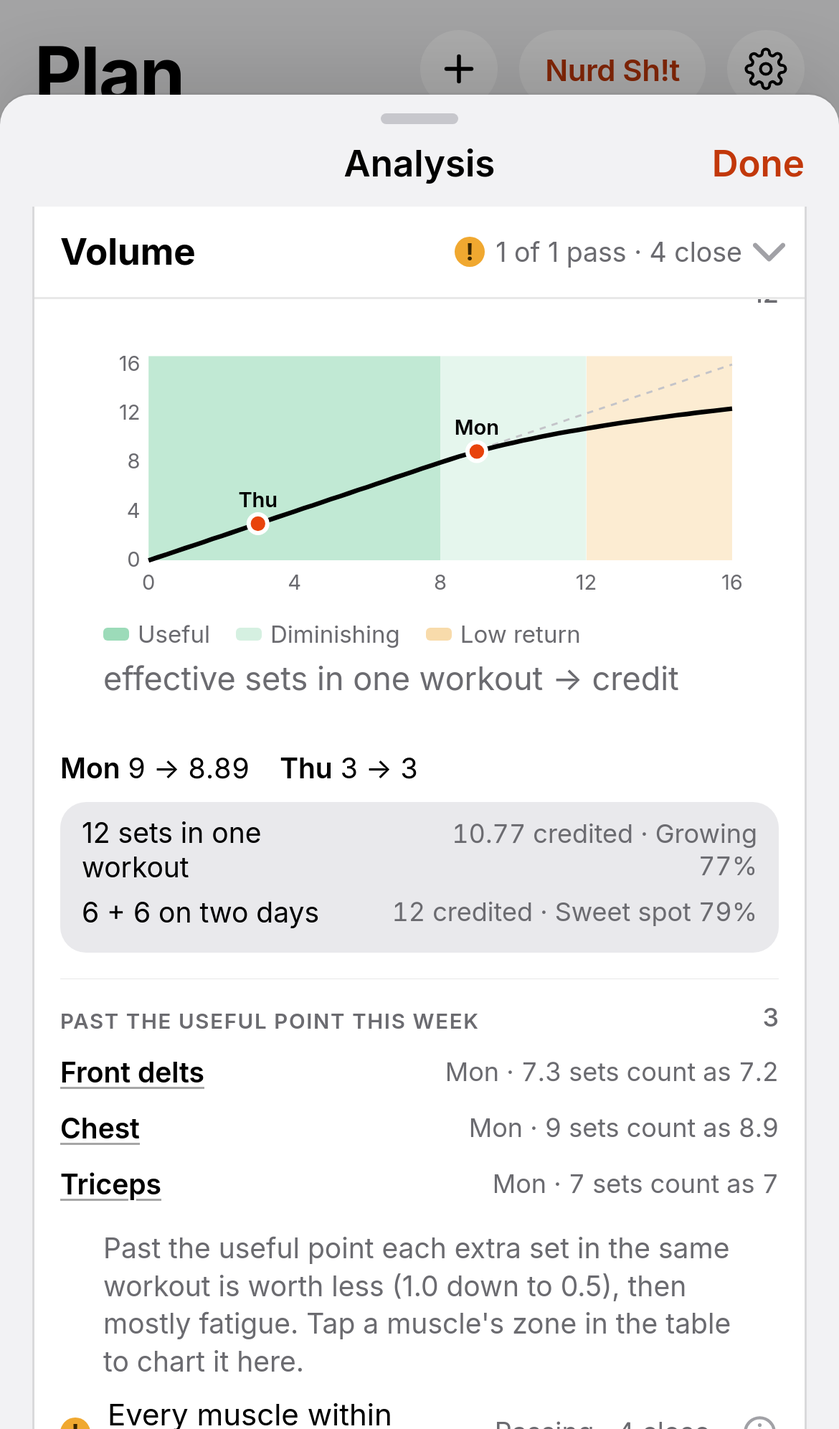
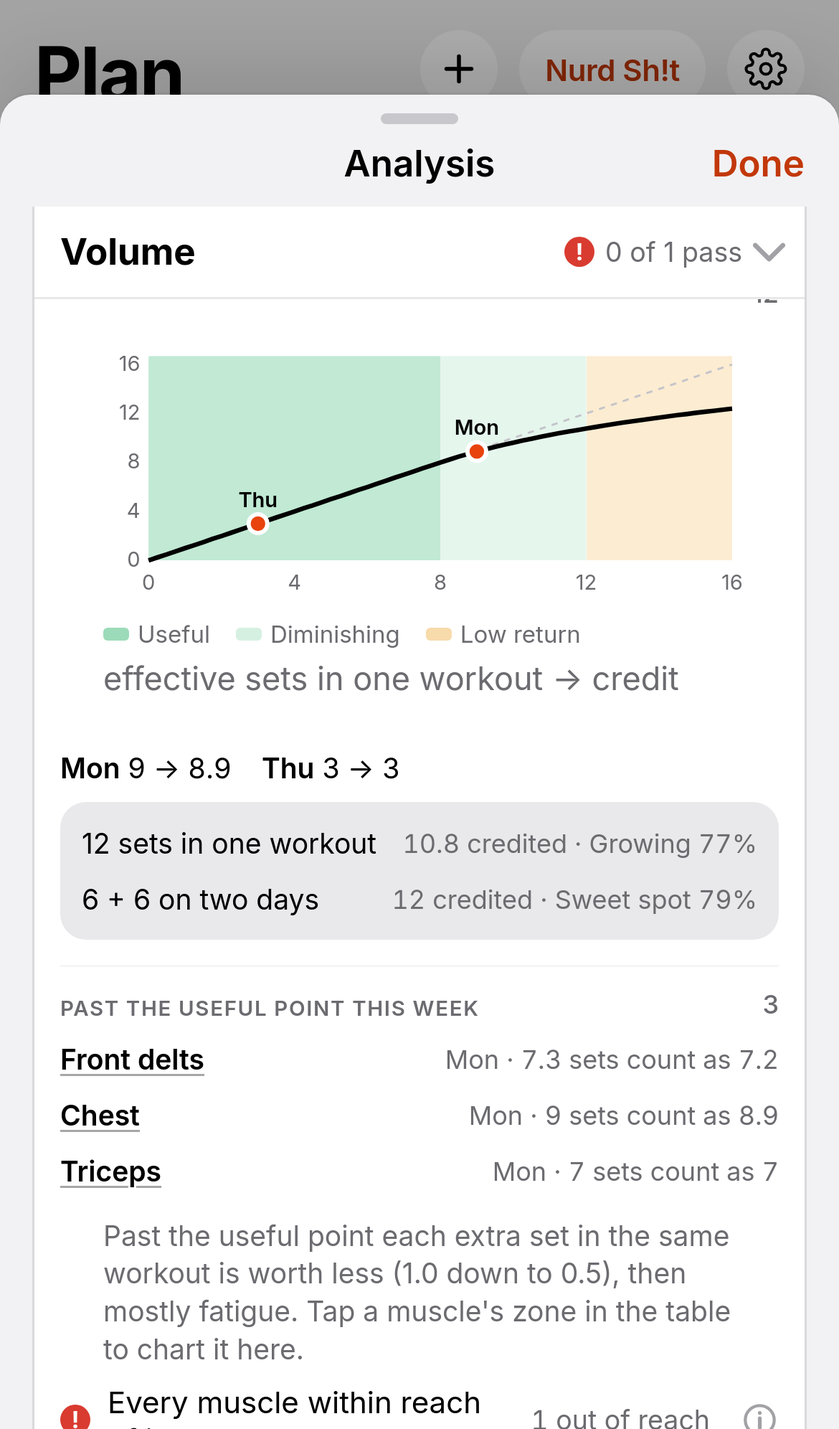
Storyboard QC on 3009dc7: board weekly colours use per-session credit; one credited value drives number, zone and colour; one decimal max; benchmark toggle selected state

diff --git a/storyboard/board.js b/storyboard/board.js
@@ -334,7 +334,7 @@ function setAnOpen(id,v){const o=anOpen();o[id]=v?1:0;try{localStorage.setItem(A
 const ICO={pass:'<span class="cki ok" role="img" aria-label="Pass">✓</span>',close:'<span class="cki amb" role="img" aria-label="Close to target">!</span>',attention:'<span class="cki bad" role="img" aria-label="Needs attention">!</span>','n/a':'<span class="cki na" role="img" aria-label="Not counted">–</span>'};
 const mlk=(m,anchor)=>`<button class="mlk" data-b="mus" data-m="${m}"${anchor?` data-anchor="${anchor}"`:''}>${MLB(m)}</button>`;
 const escA=s=>String(s||'').replace(/&/g,'&amp;').replace(/"/g,'&quot;').replace(/</g,'&lt;');
-const nfmt=x=>+(+x).toFixed(2);
+const nfmt=x=>+(+x).toFixed(1);   // qc3009: one decimal max, no trailing .0
 // a value shown next to a target range never looks in range when it isn't: whole numbers stay whole; otherwise one decimal,
 // rounded normally unless that flips the side of the range, then rounded away from the range (7.95 of 8–20 -> 7.9)
 const bfmt=(v,lo,hi)=>{v=+v;if(Number.isInteger(v))return String(v);const side=x=>x<lo?-1:hi!=null&&x>hi?1:0,s=side(v);let r=Math.round(v*10)/10;
@@ -363,7 +363,7 @@ function renderAnalysis(){if(!AN)return;const dt=RD(),{A,C,d}=stats(),R=dt.rules
     effective_frequency:`${FM.filter(m=>(A.muscles[m]||{}).freq>=2).length} of ${FM.length} on 2+ days`,frequency_two_days:ntc('frequency_two_days')?`${ntc('frequency_two_days')} on 1 day`:'all on 2+ days',
     push_pull_ratio:pp?`${pp.pull_sets} pull : ${pp.push_sets} push`:'',stretch_share:ss.overall!=null?`${pct(ss.overall)} of sets`:'',
     unilateral_share:us.overall!=null?`${pct(us.overall)} of sets`:'',movement_pattern_sets:`${Object.keys(mps).length} patterns`,
-    fatigue_rating:fz.sets?`${pct((((fz.components||{}).tiers||[])[0]||{}).share_of_cost||0)} ${((((fz.components||{}).tiers||[])[0]||{}).tier)||''}`:'',recovery_cost:rc.benchmarks?`≈ ${rc.benchmarks.ratio}× a ${rc.benchmarks.nearest.replace(/^Classic /,'').toLowerCase()}`:'',
+    fatigue_rating:fz.sets?`${pct((((fz.components||{}).tiers||[])[0]||{}).share_of_cost||0)} ${((((fz.components||{}).tiers||[])[0]||{}).tier)||''}`:'',recovery_cost:rc.benchmarks?`≈ ${nfmt(rc.benchmarks.ratio)}× a ${rc.benchmarks.nearest.replace(/^Classic /,'').toLowerCase()}`:'',
     stimulus_per_fatigue:`${SH.filter(s=>s.type==='swap_lower_fatigue').length} lower-fatigue swaps`,spinal_load:`${SP.week} of ${SP.week_max} heavy spine sets`,
     lower_back_fatigue:ntc('lower_back_fatigue')?`${ntc('lower_back_fatigue')} note${ntc('lower_back_fatigue')>1?'s':''}`:'no notes',stretch_coverage:ntc('stretch_coverage')?`${ntc('stretch_coverage')} note${ntc('stretch_coverage')>1?'s':''}`:'none',
     session_length:(v=>v?`≈ ${v.average} min a session`:'')(val('session_length'))};
@@ -393,8 +393,8 @@ function renderAnalysis(){if(!AN)return;const dt=RD(),{A,C,d}=stats(),R=dt.rules
   // line in volume-model.json swaps.display wording: "Drops {muscle} below its minimum ({after} of {min} sets)" (muscles with a delta >= 0.5 set)
   const swapTrade=s=>{const f=s.fixes[0];if(!f||!f.days||!dt.VM)return '';const sx=(f.diff||[]).find(x=>x.op==='swap');const r=ANL.swapRecord(dt,d,f.days,lv,sx&&sx.from_id,sx&&sx.to_id);
     const fd=r.fatigue_cost.delta,line1=`<span class="sgfd num">${fd<0?`Saves ${nfmt(-fd)}`:`Adds ${nfmt(fd)}`} fatigue a week</span>`;
-    const dr=r.drops_below_min.filter(m=>Math.abs(r.muscles[m].delta)>=0.5);
-    return line1+dr.map(m=>`<span class="sgtr" data-m="${m}">Drops ${MLB(m).toLowerCase()} below its minimum (${nfmt(r.muscles[m].after)} of ${nfmt(r.muscles[m].min)} sets)</span>`).join('')};
+    const dr=Object.keys(r.muscles).filter(m=>{const o=r.muscles[m];return o.before_shown>=o.min&&o.after_shown<o.min&&Math.abs(o.delta)>=0.5});   // qc3009: judged on the shown (credited, 1-dp) values so the card agrees with the table
+    return line1+dr.map(m=>`<span class="sgtr" data-m="${m}">Drops ${MLB(m).toLowerCase()} below its minimum (${nfmt(r.muscles[m].after_shown)} of ${nfmt(r.muscles[m].min)} sets)</span>`).join('')};
   const sgRow=(s,inl)=>{const [who,num]=sgHead(s),f0=s.fixes[0];let k=-1;if(f0){FIX.push(Object.assign({section:s.section},f0));k=FIX.length-1}const m=sgM(s);
     return `<div class="sgr ${s.severity}${inl?' inl':''}${s.fixes.length?' hasfix':''}" data-type="${s.type}" data-src="${s.source}" data-sec="${s.section}"${(s.target||{}).flag?` data-rule="${ruleOf(s.target.flag)}"`:''}${m?` data-m="${m}"`:''} title="${escA(sugTarget(s,d,lv))}">
       ${inl?'':`<div class="sgt">${who}${num?` <span class="num">${num}</span>`:''}</div>`}<div class="sgp">${s.source==='lower_fatigue_swap'&&f0?`${f0.preview}${swapTrade(s)}`:f0?`${f0.preview}${f0.resolves?'':` <em>${R.partial_label}</em>`}`:'No one-tap change passes the checks. Change it by hand.'}</div>
@@ -486,8 +486,8 @@ function renderAnalysis(){if(!AN)return;const dt=RD(),{A,C,d}=stats(),R=dt.rules
         const SH=n=>n.replace(/^Classic /,'').replace(' body-part split',' split').replace(' push/pull/legs',' PPL'),TW=330,cw=t=>t.length*5.6+8;
         const rows=[];const place=x=>{const t=`${SH(x.name)} ${Math.round(x.v)}`,p=P(x.v),w=cw(t),tx=p<12?0:p>88?-1:-.5,l=p/100*TW+tx*w,r=l+w;let k=0;while((rows[k]||[]).some(([a,c])=>l<c+6&&a<r+6))k++;(rows[k]=rows[k]||[]).push([l,r]);return {x,t,p,tx,k}};
         const PL=L.map(place),at=(p,tx,cls,inner,top)=>`<span class="${cls}" style="left:${p.toFixed(1)}%;--tx:${tx*100}%${top!=null?`;top:${top}px`:''}">${inner}</span>`;
-        const wp=P(b.week),ratio=mine?+(b.week/MA.avg).toFixed(2):b.ratio,wl=`${out==='lo'?'‹ ':''}This week <b class="num">${Math.round(b.week)}</b>${out==='hi'?' ›':''}`;
-        const seg=`<div class="seg sm2 rbmode" role="group" aria-label="Compare with">${MO.map(o=>{const dis=o.id==='my_average'&&!MA.available;return `<button type="button" class="${o.id===mode?'on':''}" data-b="bmode" data-mode="${o.id}"${dis?' disabled':''}>${o.label}</button>`}).join('')}</div>`;
+        const wp=P(b.week),ratio=nfmt(mine?b.week/MA.avg:b.ratio),wl=`${out==='lo'?'‹ ':''}This week <b class="num">${Math.round(b.week)}</b>${out==='hi'?' ›':''}`;
+        const seg=`<div class="seg sm2 rbmode" role="group" aria-label="Compare with">${MO.map(o=>{const dis=o.id==='my_average'&&!MA.available;return `<button type="button" class="${o.id===mode?'on':''}" data-b="bmode" data-mode="${o.id}" aria-pressed="${o.id===mode}"${dis?' disabled':''}>${o.label}</button>`}).join('')}</div>`;
         const line=mine?`This week ≈ <b class="num">${ratio}×</b> your 4-week average`:`This week ≈ <b class="num">${ratio}×</b> a ${b.nearest.replace(/^Classic /,'').toLowerCase()}`;
         return `<div class="rbench" data-mode="${mode}" data-ratio="${ratio}" data-out="${out}"><div class="ash"><span>${ref.label||'Compared with common routines'}</span></div>${seg}<p class="rbl">${line}</p>
           <div class="rbs"><div class="rbw">${at(wp,wp<12?0:wp>88?-1:-.5,'rbme',wl)}</div><div class="rbt">${L.map(x=>`<i class="${x.me?'me':''}" style="left:${P(x.v).toFixed(1)}%" title="${x.name}"></i>`).join('')}<b class="${out?'clamp':''}" style="left:${wp.toFixed(1)}%"></b></div>
@@ -496,7 +496,7 @@ function renderAnalysis(){if(!AN)return;const dt=RD(),{A,C,d}=stats(),R=dt.rules
           <p class="foot">${mine?`My average: the last ${MA.window.length} logged weeks (deload weeks and weeks under half done left out).`:MA.available?'':`My average unlocks after ${MA.need} logged weeks (${MA.weeks} so far).`}</p></div>`};
       const rleg=RTD?`<div class="tierleg rtleg">${RTD.tiers.map(t=>`<span data-tier="${t.id}"><i style="background:var(--tier-${TI(t.id)})"></i>${RGL(t.label)}</span>`).join('')}</div>`:'';
       return gfx('recovery_cost',`<div class="hbars">${Object.entries(bd).map(([k,v])=>stk(k,v)).join('')||'<p class="foot">No training days yet.</p>'}</div>${Object.keys(bd).length?rleg:''}${benchHtml()}${hoursHtml()}`,{mod:1})
-        +gfx('stimulus_per_fatigue',`<div class="hbars">${sm.map(([m,v])=>hbar(mlk(m,'fatigue'),v/smx*100,(+v).toFixed(2))).join('')}</div><p class="foot">Effective sets per fatigue point; lowest first.</p>`,{mod:1})
+        +gfx('stimulus_per_fatigue',`<div class="hbars">${sm.map(([m,v])=>hbar(mlk(m,'fatigue'),v/smx*100,String(nfmt(v)))).join('')}</div><p class="foot">Effective sets per fatigue point; lowest first.</p>`,{mod:1})
         +gfx('fatigue_rating',fz.sets?`<div class="tierbar">${tiers.map(t=>`<i style="flex:${t.share_of_cost};background:var(--tier-${FTI(t.tier)})" title="${RGL(t.tier)}"></i>`).join('')}</div><div class="tierleg">${tiers.map(t=>`<span><i style="background:var(--tier-${FTI(t.tier)})"></i>${RGL(t.tier)} ${pct(t.share_of_cost)}</span>`).join('')}</div><button class="btn plain sm fzmore" data-b="anx" data-id="fatigue_rating">Full breakdown ›</button>`:'',{mod:1})
         +`<div class="ckl">${ckRow('recovery_vs_baseline')}${ckRow('spinal_load',{after:A.day.length?`<div class="ckd">${A.day.map(x=>`<span class="${x.spinal>SP.session_max?'over':''}">${WD[DAYS.indexOf(x.day)]} ${x.spinal}/${SP.session_max}</span>`).join(' · ')} spine sets</div>`:''})}${ckRow('lower_back_fatigue')}</div>`+rest('recovery_fatigue','Lower-fatigue swaps')},
     session:()=>{const lim=sessLimit(),mx2=Math.max(mx,lim+15),SM=t=>PC.sessionMinutes(dt,t,lv);
@@ -563,7 +563,7 @@ function ddBody(){const m=CB.key,dt=RD(),d=checkDays(),lv=B.level,SH=ANL.sheet(d
    ${sec('curve','Stimulus curve',A.muscles[m]?`<div class="curvec">${curve(m,A)}</div>${P.curve.zone?`${kv('Zone',ZL(P.curve.zone))}${kv('Sweet spot',`${P.curve.zones.sweet[0]}–${P.curve.zones.sweet[1]} sets · min ${P.curve.zones.min} · diminishing past ${P.curve.zones.diminishing}`)}${kv('Plateau',`${Math.round(P.curve.stimulus*100)}% of this muscle's modeled plateau`)}`:kv('Position',({below:'Below the ideal band',in_band:'In the ideal band',above:'Above the ideal band'})[P.curve.position])}${kv('Next set',`+${(P.curve.next_set*100).toFixed(1)}%`)}`:'',{mod:1,v:P.curve.zone?ZL(P.curve.zone):`${Math.round(P.curve.stimulus*100)}% of max`})}
    ${sec('frequency','Frequency',`<div class="ddfq">${Object.entries(P.frequency.effective_by_day).map(([k,v])=>`<span><i data-r="${RAMP(v)}"></i>${WD[DAYS.indexOf(k)]} ${nfmt(v)}</span>`).join('')}</div>${FN.map(n=>`<div class="nrow" data-note="${n.id}" data-pol="${n.polarity}">${n.polarity==='positive'?ICO.pass:ICO.close}<span>${n.text}</span></div>`).join('')}`,{v:`${P.frequency.days_hit} day${P.frequency.days_hit===1?'':'s'} with ${P.frequency.min_effective_per_day}+ sets`})}
    ${sec('stretch','Stretch',P.stretch.share==null?'<p class="foot">No stretch list for this muscle, or no sets.</p>':`<div class="hbar"><span class="vm hbs">Share${P.stretch.checked?(P.stretch.check_pass?ICO.pass:ICO.attention):''}</span><span class="hbt"><i class="${P.stretch.share<dt.targets.analytics.stretch_share_flag_below?'amb':'ok'}" style="--w:${P.stretch.share*100}%"></i><b style="--x:${dt.targets.analytics.stretch_share_flag_below*100}%"></b></span><span class="vn num">${pct(P.stretch.share)}</span></div>${P.stretch.checked?kv('Stretch check',P.stretch.check_pass?'Passes':'Needs stretch-focused work'):''}`)}
-   ${sec('fatigue','Recovery and fatigue',`${(h=>kv('Ready again',h?`${ANL.hoursRange(RD(),h.hours).text} after ${WDL[DAYS.indexOf(h.day)]}`:'–'))(RD().VM?ANL.weekHours(RD(),checkDays(),B.level).per_muscle[m]:null)}${RD().VM?`<p class="rcav">${RD().VM.recovery.caveat}</p>`:''}${kv('Stimulus per fatigue',P.stimulus_per_fatigue!=null?(+P.stimulus_per_fatigue).toFixed(2):'–')}${kv('Fatigue per effective set',P.fatigue!=null?(+P.fatigue).toFixed(2):'–')}${kv('One-side share',P.one_side_share!=null?pct(P.one_side_share):'–')}`,{mod:1})}
+   ${sec('fatigue','Recovery and fatigue',`${(h=>kv('Ready again',h?`${ANL.hoursRange(RD(),h.hours).text} after ${WDL[DAYS.indexOf(h.day)]}`:'–'))(RD().VM?ANL.weekHours(RD(),checkDays(),B.level).per_muscle[m]:null)}${RD().VM?`<p class="rcav">${RD().VM.recovery.caveat}</p>`:''}${kv('Stimulus per fatigue',P.stimulus_per_fatigue!=null?nfmt(P.stimulus_per_fatigue):'–')}${kv('Fatigue per effective set',P.fatigue!=null?nfmt(P.fatigue):'–')}${kv('One-side share',P.one_side_share!=null?pct(P.one_side_share):'–')}`,{mod:1})}
    ${sec('session','Contributing exercises',rows.length?`<div class="group cbl">${rows.map(r=>`<div class="row cbr" data-u="${r.t.u}" data-id="${r.t.id}">${X.gl(r.t.id)}<div class="grow"><div class="t1">${X.exNameP(r.t.id)}${X.cxL(r.t.id)}</div><div class="t2 num">${WD[r.di]} · ${r.sets} sets → ${nfmt(r.eff)} effective</div></div><button class="btn sm grey" data-b="cbrm" data-u="${r.t.u}">Remove</button></div>`).join('')}</div>`:'<p class="foot">Nothing on the board trains this yet.</p>',{v:rows.length?`${P.contributors.length} exercise${P.contributors.length===1?'':'s'}`:''})}
    ${sec('suggest','Suggestions',`${sgs||'<p class="foot">No suggestions for this muscle.</p>'}${pk?`<div class="pad0"><button class="btn accent block cbadd" data-b="cbadd" data-id="${pk.id}" data-day="${ra.day}"><span>${X.I('plus',2)} Add suggested</span><small>${X.exNameP(pk.id)} · ${WD[DAYS.indexOf(ra.day)]}</small></button></div><p class="foot">Top pick of the shared ranker for ${MLB(m).toLowerCase()} on ${WDL[DAYS.indexOf(ra.day)]}${ra.items.length>1?`; then ${ra.items.slice(1,3).map(x=>X.exNameP(x.id)).join(', ')}`:''}; ${setsFor(pk.id)} sets.</p>`:''}`)}
    <p class="foot">Effective sets = sets × the exercise's counted credit for this muscle (the Volume model). Curve, recovery and fatigue values are models, not measurements.</p>`}

diff --git a/storyboard/logic/progcheck.js b/storyboard/logic/progcheck.js
@@ -16,7 +16,8 @@ function ctx(dt){if(dt._pc)return dt._pc;const R=dt.rules,RU={};R.rules.forEach(
   return dt._pc={R,RU,T:TT.targets,S:TT.session.muscles,LF:TT.levelMinFactor,HEAVY,PJ:dt.patterns,MUS:dt.exl.muscles}}
 const total=d=>d.tiles.reduce((a,t)=>a+t.sets,0);
 // ---- vol2 (Coach's data/volume-model.json = dt.VM; targets.json volume_zones; rules.json session_length.by_level). Without dt.VM the old maths run.
-const r05=x=>Math.floor(x*2+0.5)/2;   // weekly totals round to 0.5 before colouring (targets.json counting.round_to); ships with the new counting
+const r05=x=>Math.floor(x*2+0.5)/2,r1=x=>Math.round(x*10)/10;   // qc3009: display + zoning use the credited value at one decimal (r1); r05 kept only for Coach's swap records
+   // weekly totals round to 0.5 before colouring (targets.json counting.round_to); ships with the new counting
 function roleOff(dt,e,r){const C=dt.VM.credit.roles;let mx=0;for(const v of Object.values(e.muscles))if(v>mx)mx=v;return r>=mx-1e-9||r>=0.75?C.prime.rir_offset:r>=0.5?C.secondary.rir_offset:C.minor.rir_offset}
 function prox(dt,rir){const T=dt.VM.credit.prox.table;return T[String(Math.max(0,Math.min(6,Math.round(rir))))]}
 const plannedRir=(dt,e)=>{const P=dt.VM.credit.planned_rir_default;return P[e.type]!=null?P[e.type]:2};
@@ -43,7 +44,7 @@ function slotCounts(dt,days){const {PJ}=ctx(dt),c={};for(const k in PJ.slots)c[k
   for(const d of days)for(const t of d.tiles){const e=dt.EX[t.id],hit=new Set();for(const s of e.patterns||[]){if(PJ.slots[s].kind==='compound'&&e.type==='isolation')continue;hit.add(s);(PJ.slots[s].counts_toward||[]).forEach(x=>hit.add(x))}hit.forEach(s=>c[s]+=1)}return c}
 function patternFlags(dt,days,level){const {PJ}=ctx(dt);if(!days.some(d=>d.tiles.length))return [];const c=slotCounts(dt,days),out=[];
   for(const [s,mn] of Object.entries(PJ.weekly_min_by_level[level])){if(mn<=0||c[s]>=mn)continue;out.push([c[s]===0&&PJ.required.includes(s)?'warn':'info','pattern_gap',s,c[s],mn])}return out}
-function col(dt,m,x,level){const {T,LF}=ctx(dt),a=pyR(T[m].min*LF[level]*2)/2,b=T[m].max;if(dt.VM)x=r05(x);if(a<=x&&x<=b)return 'G';if((a-2<=x&&x<a)||(b<x&&x<=b*1.25))return 'A';return 'R'}
+function col(dt,m,x,level){const {T,LF}=ctx(dt),a=pyR(T[m].min*LF[level]*2)/2,b=T[m].max;if(dt.VM)x=r1(x);if(a<=x&&x<=b)return 'G';if((a-2<=x&&x<a)||(b<x&&x<=b*1.25))return 'A';return 'R'}
 // days: [{day:'mon', tiles:[{id,sets}]}] (training days only, any order). Returns [flags, week]
 function check(dt,days,level){const {R,RU,T,S,HEAVY}=ctx(dt),PAT=dt.PAT,f=[],week={},freq={};for(const m in T){week[m]=0;freq[m]=0}
   let push=0,pull=0,spw=0;const byday={};days.forEach(d=>byday[d.day]=d);const HS=new Set(R.heavy_squats),HH=new Set(R.heavy_hinges);
@@ -56,7 +57,8 @@ function check(dt,days,level){const {R,RU,T,S,HEAVY}=ctx(dt),PAT=dt.PAT,f=[],wee
       if(R.push_patterns.includes(p))push+=t.sets;if(R.pull_patterns.includes(p))pull+=t.sets}
     for(const [p,c] of pc){if(c<2)continue;const pv=eff(dt,d.tiles.filter(t=>(PAT[t.id]??null)===p));const over=Object.keys(pv).filter(m=>pv[m]>RU.redundant_pattern.threshold);
       if(over.length)f.push(['warn','redundant_pattern',d.day,p,c,over[0],pyR(pv[over[0]],1)])}
-    const v=eff(dt,d.tiles);for(const m in v){const x=v[m];week[m]+=x;if(x>=2)freq[m]+=1;if(x>10)f.push(['warn','junk_volume_session',d.day,m,pyR(x,1)])}
+    const v=eff(dt,d.tiles);for(const m in v){const x=v[m];week[m]+=dt.VM?sessCredit(dt,m,x):x;   // qc3009: weekly totals use the per-session credit (JS diverges from Coach's Python here, accepted)
+      if(x>=2)freq[m]+=1;if(x>10)f.push(['warn','junk_volume_session',d.day,m,pyR(x,1)])}
     const ids=new Set(d.tiles.map(t=>t.id));if(level==='beginner'&&[...ids].some(i=>HS.has(i))&&[...ids].some(i=>HH.has(i)))f.push([RU.beginner_squat_and_deadlift.severity||'warn','beginner_squat_and_deadlift',d.day])} // r2fix: severity from rules[]
   for(let i=0;i<6;i++){const dd=ORDER[i],a=byday[dd],b=byday[ORDER[i+1]];if(!(a&&b))continue;
     if(a.tiles.some(t=>HH.has(t.id))&&b.tiles.some(t=>HS.has(t.id)))f.push([RU.hinge_before_squat.severity||'warn','hinge_before_squat',dd]);
@@ -219,14 +221,14 @@ function analytics(dt,days,level){const TT=dt.targets,C=TT.curve,A=TT.analytics,
   const kOf=m=>(C.k_by_muscle&&C.k_by_muscle[m]&&C.k_by_muscle[m][level])||C.k[level],Sx=(x,k)=>1-Math.exp(-x/k),SD=C.session_discount,disc=(v,m)=>VM?sessCredit(dt,m,v):Math.min(v,SD.cap)+Math.max(0,v-SD.cap)*SD.factor;
   const perDay=days.map(d=>eff(dt,d.tiles)),muscles={};
   for(const m of MUS){const rawx=perDay.reduce((a,v)=>a+v[m],0),x=perDay.reduce((a,v)=>a+disc(v[m],m),0),freq=perDay.filter(v=>v[m]>=A.frequency_min_effective).length;
-    if(VM){const z=zones(dt,m,level);muscles[m]={raw:r05(x),raw_exact:x,raw_sets:rawx,x,zones:z,zone:zoneOf(z,x),stim:stim(dt,m,level,x),next:stim(dt,m,level,x+1)-stim(dt,m,level,x),min:z.min,max:z.diminishing,freq};continue}
+    if(VM){const z=zones(dt,m,level);muscles[m]={raw:r1(x),raw_exact:x,raw_sets:rawx,x,zones:z,zone:zoneOf(z,r1(x)),stim:stim(dt,m,level,x),next:stim(dt,m,level,x+1)-stim(dt,m,level,x),min:z.min,max:z.diminishing,freq};continue}
     const k=kOf(m),min=pyR(T[m].min*LF[level]*2)/2;
     muscles[m]={raw:rawx,x,k,stim:Sx(x,k),next:Sx(x+1,k)-Sx(x,k),min,max:T[m].max,freq}}
   const fat=e=>e.fatigue!=null?e.fatigue:(e.type==='isolation'?.8:1.2);
   const day=days.map(d=>({day:d.day,minutes:sessionMinutes(dt,d.tiles,level),sets:total(d),cost:d.tiles.reduce((a,t)=>a+t.sets*fat(dt.EX[t.id]),0),spinal:d.tiles.reduce((a,t)=>a+(HEAVY.has(t.id)?t.sets:0),0)}));
   return {muscles,day,weekSets:days.reduce((a,d)=>a+total(d),0),weekMinutes:day.reduce((a,d)=>a+d.minutes,0),weekCost:day.reduce((a,d)=>a+d.cost,0),
     spinal:{week:day.reduce((a,d)=>a+d.spinal,0),week_max:RU.spinal_load.week_warn_above[level],session_max:RU.spinal_load.session_warn_above[level]},disclaimer:VM?dt.VM.disclaimer:A.disclaimer,curveModel:VM?dt.VM.curve.reads_as:C.model}}
-const API={check,fixes,evaluate,message,checks,analytics,sessionMinutes,eff,credit,sessCredit,sessZones,zones,stim,zoneOf,sessP,r05,flagKey,ORDER,shortLabel,ruleLabel,
+const API={check,fixes,evaluate,message,checks,analytics,sessionMinutes,eff,credit,sessCredit,sessZones,zones,stim,zoneOf,sessP,r05,r1,flagKey,ORDER,shortLabel,ruleLabel,
   // internals reused by logic/analysis.js and logic/progress.js (same functions, so the ports cannot drift)
   _x:{gAddSets,gAddExercise,gReduceSets,prev,nonin,_day,load,col,RULE_OF,total,ctx,clone,cmpT,sortBy,fmtPy}};
 if(typeof module!=='undefined'&&module.exports)module.exports=API;else root.PCHECK=API;

diff --git a/storyboard/logic/analysis.js b/storyboard/logic/analysis.js
@@ -53,7 +53,7 @@ function sLowerFatigue(dt,days,level){const res=[],DN=dt.rules.day_names;
     for(const c of cands.slice(0,8)){const nw=clone(days),hit=[];for(const d of nw){if(d.tiles.some(t=>t.id===c))continue;for(const t of d.tiles)if(t.id===cur){t.id=c;hit.push(d.day)}}
       if(!hit.length||!valid(dt,days,nw,level))continue;const b=weekCost(dt,days),a=weekCost(dt,nw);if(a>=b)continue;
       const p={target:cur,criteria:'lower_fatigue',days:hit,name:dt.EX[cur].name,new_name:dt.EX[c].name,day:hit[0],day_list:hit.map(x=>DN[x]).join(', '),
-        spf_from:spf(dt,cur,m).toFixed(2),spf_to:spf(dt,c,m).toFixed(2),muscle:m.replace(/_/g,' ')};
+        spf_from:String(+spf(dt,cur,m).toFixed(1)),spf_to:String(+spf(dt,c,m).toFixed(1)),   /* qc3009: one decimal on screen */muscle:m.replace(/_/g,' ')};
       fx.push(pack(dt,'swap_exercise',p,preview(dt,'lower_fatigue_swap',p),nw,days,true,b,a));break}
     res.push({target:{exercise:cur,muscle:m},fixes:fx})}return res}
 function sStretchShare(dt,days,level){const res=[],thr=A(dt).stretch_share_flag_below,STRB=dt.rules.stretch_biased,N=Object.keys(dt.EX).length;
@@ -102,7 +102,7 @@ function sRecovery(dt,days,level,baseline,modifier=1.0){if(!baseline)return [];c
   if(sw.length){const p={target:'lower_fatigue',n:sw.length,parts:sw.join('; ')};fx.push(pack(dt,'swap_exercise',p,preview(dt,'recovery_vs_baseline',Object.assign({},p,{kind:'swap'})),nw,days,pct(nw)<=goal,p0,pct(nw)))}
   return [{target:{pct:pyR(p0*100)},fixes:notResolvesFirst(fx)}]}
 function sWeeklyBand(dt,days,level){const res=[],{T,LF}=ctx(dt),week=PC.check(dt,days,level)[1];
-  for(let [m,x] of Object.entries(week)){if(dt.VM)x=PC.r05(x);const lo=Math.max(0.5,pyR(T[m].min*LF[level]*2)/2),hi=T[m].max;if((lo<=x&&x<=hi)||col(dt,m,x,level)==='R')continue;
+  for(let [m,x] of Object.entries(week)){if(dt.VM)x=PC.r1(x);const lo=Math.max(0.5,pyR(T[m].min*LF[level]*2)/2),hi=T[m].max;if((lo<=x&&x<=hi)||col(dt,m,x,level)==='R')continue;
     const under=x<lo,dist=v=>under?lo-v:v-hi;const gens=under?[X.gAddSets(dt,days,m),X.gAddExercise(dt,days,m)]:[X.gReduceSets(dt,days,null,'highest_contributor',m)];const fx=[];
     for(const g of gens){let best=null,n_=0;for(const [a_,p,nw] of g){if(n_++>200)break;const v=PC.eff(dt,nw.flatMap(d=>d.tiles))[m];
         if(dist(v)>=dist(x)-1e-9||!valid(dt,days,nw,level))continue;const c=pack(dt,a_,p,X.prev(dt,a_,p),nw,days,dist(v)<=0,x,v);if(c.resolves){best=c;break}best=best||c}
@@ -233,7 +233,7 @@ function items(dt,days,level,baseline=null){const am=dt.rules.analysis_metrics,f
     const mine=fd.filter(f=>(it.rules||[]).includes(f.rule)&&f.item===it.id),e={id:it.id,kind:it.kind,section:it.section,label:it.label};
     if(it.kind==='check'){const att=mine.filter(f=>f.severity!=='info');Object.assign(e,{status:!ok?'n/a':att.length?'attention':'pass',flags:ok?att:[],notes:ok?mine.filter(f=>f.severity==='info'):[]})}
     else if(it.kind==='info'&&it.rules&&it.rules.length)Object.assign(e,{applicable:ok,notes:ok?mine:[]});
-    const V={weekly_sets_per_muscle:()=>({muscles:Object.fromEntries(Object.entries(week).map(([m,x])=>[m,{sets:pyR(x,2),colour:col(dt,m,x,level)}])),week_sets_total:allsets}),
+    const V={weekly_sets_per_muscle:()=>({muscles:Object.fromEntries(Object.entries(week).map(([m,x])=>[m,{sets:pyR(x,1),colour:col(dt,m,x,level)}])),week_sets_total:allsets}),
       weekly_sets_per_region:regions,effective_frequency:()=>Object.fromEntries(Object.keys(week).map(m=>[m,train.filter(d=>(PC.eff(dt,d.tiles)[m]||0)>=2).length])),
       push_pull_ratio:()=>pushPull(dt,days),
       stretch_share:()=>({overall:r4(T.filter(x=>stretchFocused(dt,x[1])).reduce((a,x)=>a+x[2],0)/Math.max(1,allsets)),per_muscle:Object.fromEntries(Object.entries(bd.muscle).filter(([,v])=>v.stretch_share!==null).map(([m,v])=>[m,v.stretch_share])),per_pattern:pick(bd.pattern,'stretch_share')}),
@@ -278,8 +278,8 @@ function benchVs(dt,wc){const L=((((dt.targets||{}).recovery||{}).reference||{})
 // swap tradeoff record (volume-model.json swaps.schema), computed with the new counting
 function swapRecord(dt,before,after,level,from_id,to_id){const A0=PC.analytics(dt,before,level).muscles,A1=PC.analytics(dt,after,level).muscles,mus={},drops=[];
   const ch=new Set();after.forEach((d,i)=>{const b=before.find(x=>x.day===d.day);if(JSON.stringify(b&&b.tiles)!==JSON.stringify(d.tiles))ch.add(d.day)});
-  for(const m of Object.keys(A0)){const a=A0[m],b=A1[m],dl=b.raw_exact-a.raw_exact;if(Math.abs(dl)<1e-9)continue;const cr=a.raw>=a.min&&b.raw<a.min;if(cr)drops.push(m);
-    mus[m]={before:a.raw,after:b.raw,delta:r4(dl,2),zone_before:a.zone,zone_after:b.zone,min:a.min,crosses_below_min:cr,stimulus_before:r4(a.stim,3),stimulus_after:r4(b.stim,3)}}
+  for(const m of Object.keys(A0)){const a=A0[m],b=A1[m],dl=b.raw_exact-a.raw_exact,a5=PC.r05(a.raw_exact),b5=PC.r05(b.raw_exact);if(Math.abs(dl)<1e-9)continue;const cr=a5>=a.min&&b5<a.min;if(cr)drops.push(m);
+    mus[m]={before:a5,after:b5,before_shown:a.raw,after_shown:b.raw,delta:r4(dl,2),zone_before:a.zone,zone_after:b.zone,min:a.min,crosses_below_min:cr,stimulus_before:r4(a.stim,3),stimulus_after:r4(b.stim,3)}}
   const fb=weekCost(dt,before),fa=weekCost(dt,after);
   return {from_id,to_id,days:[...ch],fatigue_cost:{before:r4(fb,1),after:r4(fa,1),delta:r4(fa-fb,1)},muscles:mus,drops_below_min:drops,verdict:drops.length?'tradeoff':'clean'}}
 const API={hoursRange,myAverage,sessionHours,weekHours,benchVs,swapRecord,applyOps,invertOps,diff,suggest,sheet,metrics,checksPass,applicable,itemOf,flagDetails,breakdowns,fatigueRating,items,stretchFocused,tierOf,pushPull,ruleApplies,catalogue,typeOf,weekCost,stretchShare,lowerFatigueCandidates,pyDumps};

diff --git a/storyboard/sb.css b/storyboard/sb.css
@@ -1586,3 +1586,7 @@ html[data-theme=dark] .pmom.gold .pm-txt .eyebrow{color:#FFD88F}
 .rhr .num{white-space:normal}
 .rbmode{display:inline-flex;width:auto}.rbmode button{white-space:nowrap;padding:5px 12px;flex:0 0 auto}.rbmode button[disabled]{opacity:.45}
 .rhh+.rcav{margin:0 0 6px}
+/* qc3009: benchmark mode toggle: selected = filled ink pill, unselected = plain outline */
+.seg.rbmode{background:none;padding:0;gap:6px}
+.seg.rbmode button{background:transparent;box-shadow:none;border:1px solid var(--line-strong);color:var(--text-2);font-weight:500;height:30px;border-radius:15px}
+.seg.rbmode button.on{background:var(--ink);border-color:var(--ink);color:var(--paper);font-weight:600;box-shadow:none}

diff --git a/storyboard/ARCHITECTURE-web-storyboard.md b/storyboard/ARCHITECTURE-web-storyboard.md
@@ -528,3 +528,4 @@ The suite runs all three (`r3*` checks).
 - **Analysis2 + volume model vol3 (Oct 31, 2026, Mr Dude / Coach):** "Nerd Sh*t" → **Nurd Sh!t**. Coach's `volume-model.json` loads as `RD.VM`. In `logic/progcheck.js`: `credit()`/`eff()` = rating × prox(RIR + role offset) (planned RIR 2 compound / 1 isolation); weekly totals round half-up to 0.5 (`r05`) before `col()`; `stim()` = sqrt(x/D)/1.1 to the diminishing point, then plateau (no `k_by_muscle`); `zones()`/`zoneOf()` read `targets.json volume_zones`; `sessP()`/`sessionMinutes(dt,tiles,level)` read `rules.json session_length.by_level`, and `message()` fills `{warn_min}`/`{info_min}`. In `logic/analysis.js`: `sessionHours`/`weekHours` (hours_formula), `benchVs` (recovery.reference benchmarks), `swapRecord` (swaps.schema; matches all 35 reference swaps). The Analysis sheet has one per-muscle table (sets / effective / zone label + % of this muscle's modeled plateau, with a zone bar) and zone bands on the curve and the muscle sheet. Recovery shows "ready in about N h" per muscle and the week vs 4 benchmark routines (no pts). There's a session-limit stepper (default = the level's info_min, saved on the device) with fill/trim suggestions weighted by `goal_muscle_weights`. Swap cards show the fatigue delta plus "Drops X below its minimum (a of b sets)". Notes are `explain.so_what` with a "Nurd Sh!t ›" chip. Shots 79a-*, 79b.
 - **QC on 645de2a (Oct 31, 2026, CoS):** the recovery benchmark scale is now a real value scale: the domain is the benchmarks ±12%, and dots and labels are placed by value (labels stagger in 2 rows, 'This week' sits above its dot, and a week outside the range is clamped with ‹/› and a note). Each volume-table zone bar is attached under its own row, with the divider after it. The Session legend reads 'Grey line: your limit. Red line: too long for your level.'
 - **Volume model vol5 (Oct 31, 2026, Mr Dude review / Coach, spec §9):** `PC.stim` uses the log curve (`curve.active='log'`, c = D·c_frac_of_D, plateau tau = 0.1·(c+D)·ln(1+D/c), /1.1). Per-session credit is the smooth `PC.sessCredit` (s ≤ a: s; else a + b·ln(1+(s−a)/b), a/b = 0.8/0.4 × targets `session.muscles[m].heavy`) in analytics and muscledive; effective sets shown = r05 of the discounted weekly x. `PC.sessZones` feeds the new **Per workout** block (credit curve with useful / diminishing / low-return zones, this week's days, muscles past their useful point, 12-in-one-day vs 6+6 computed live). Recovery never shows hours: `ANALYSIS.hoursRange` (×0.8 floor / ×1.2 ceil in half days, < 20 h "about a day") on per-muscle rows, per-day bars and the muscle sheet, always with `VM.recovery.caveat`. Benchmarks have **Typical routines / My average** modes (`targets.recovery.reference.baseline_modes`); `ANALYSIS.myAverage` averages logged week_cost over the last 4 qualifying weeks (deload and <50%-done weeks left out) and becomes the default once 4 exist; choice saved in `apechit.sb.benchMode`; labels placed in greedy non-colliding rows. All `volume-model-reference.json` cases, 35/35 swaps and 304 credit_at_n values match.
+- **QC on 3009dc7 (Oct 31, 2026, CoS):** `PC.check` weekly totals (and so the Plan board / Analysis weekly colours and weekly_volume flags) use the per-session credit `PC.sessCredit` — the JS program check now deliberately diverges from Coach's Python here. Every shown effective-set number is the credited value at one decimal (`PC.r1`), and zone and colour come from that same value (`col()` and `zoneOf` on r1), so number, zone and colour always agree; Coach's 0.5 rounding (`PC.r05`) is kept only inside `ANALYSIS.swapRecord`'s before/after fields for the reference file (the swap card uses `before_shown`/`after_shown`). Dropping r05 from colouring makes 2 of 46 presets warn (full-body advanced 2 triceps 5.9 of 8, upper-lower intermediate 2 side delts 4.3 of 6.5). Board numbers use `nfmt` at one decimal. The benchmark mode toggle is a filled ink pill for the selected mode with `aria-pressed`.
